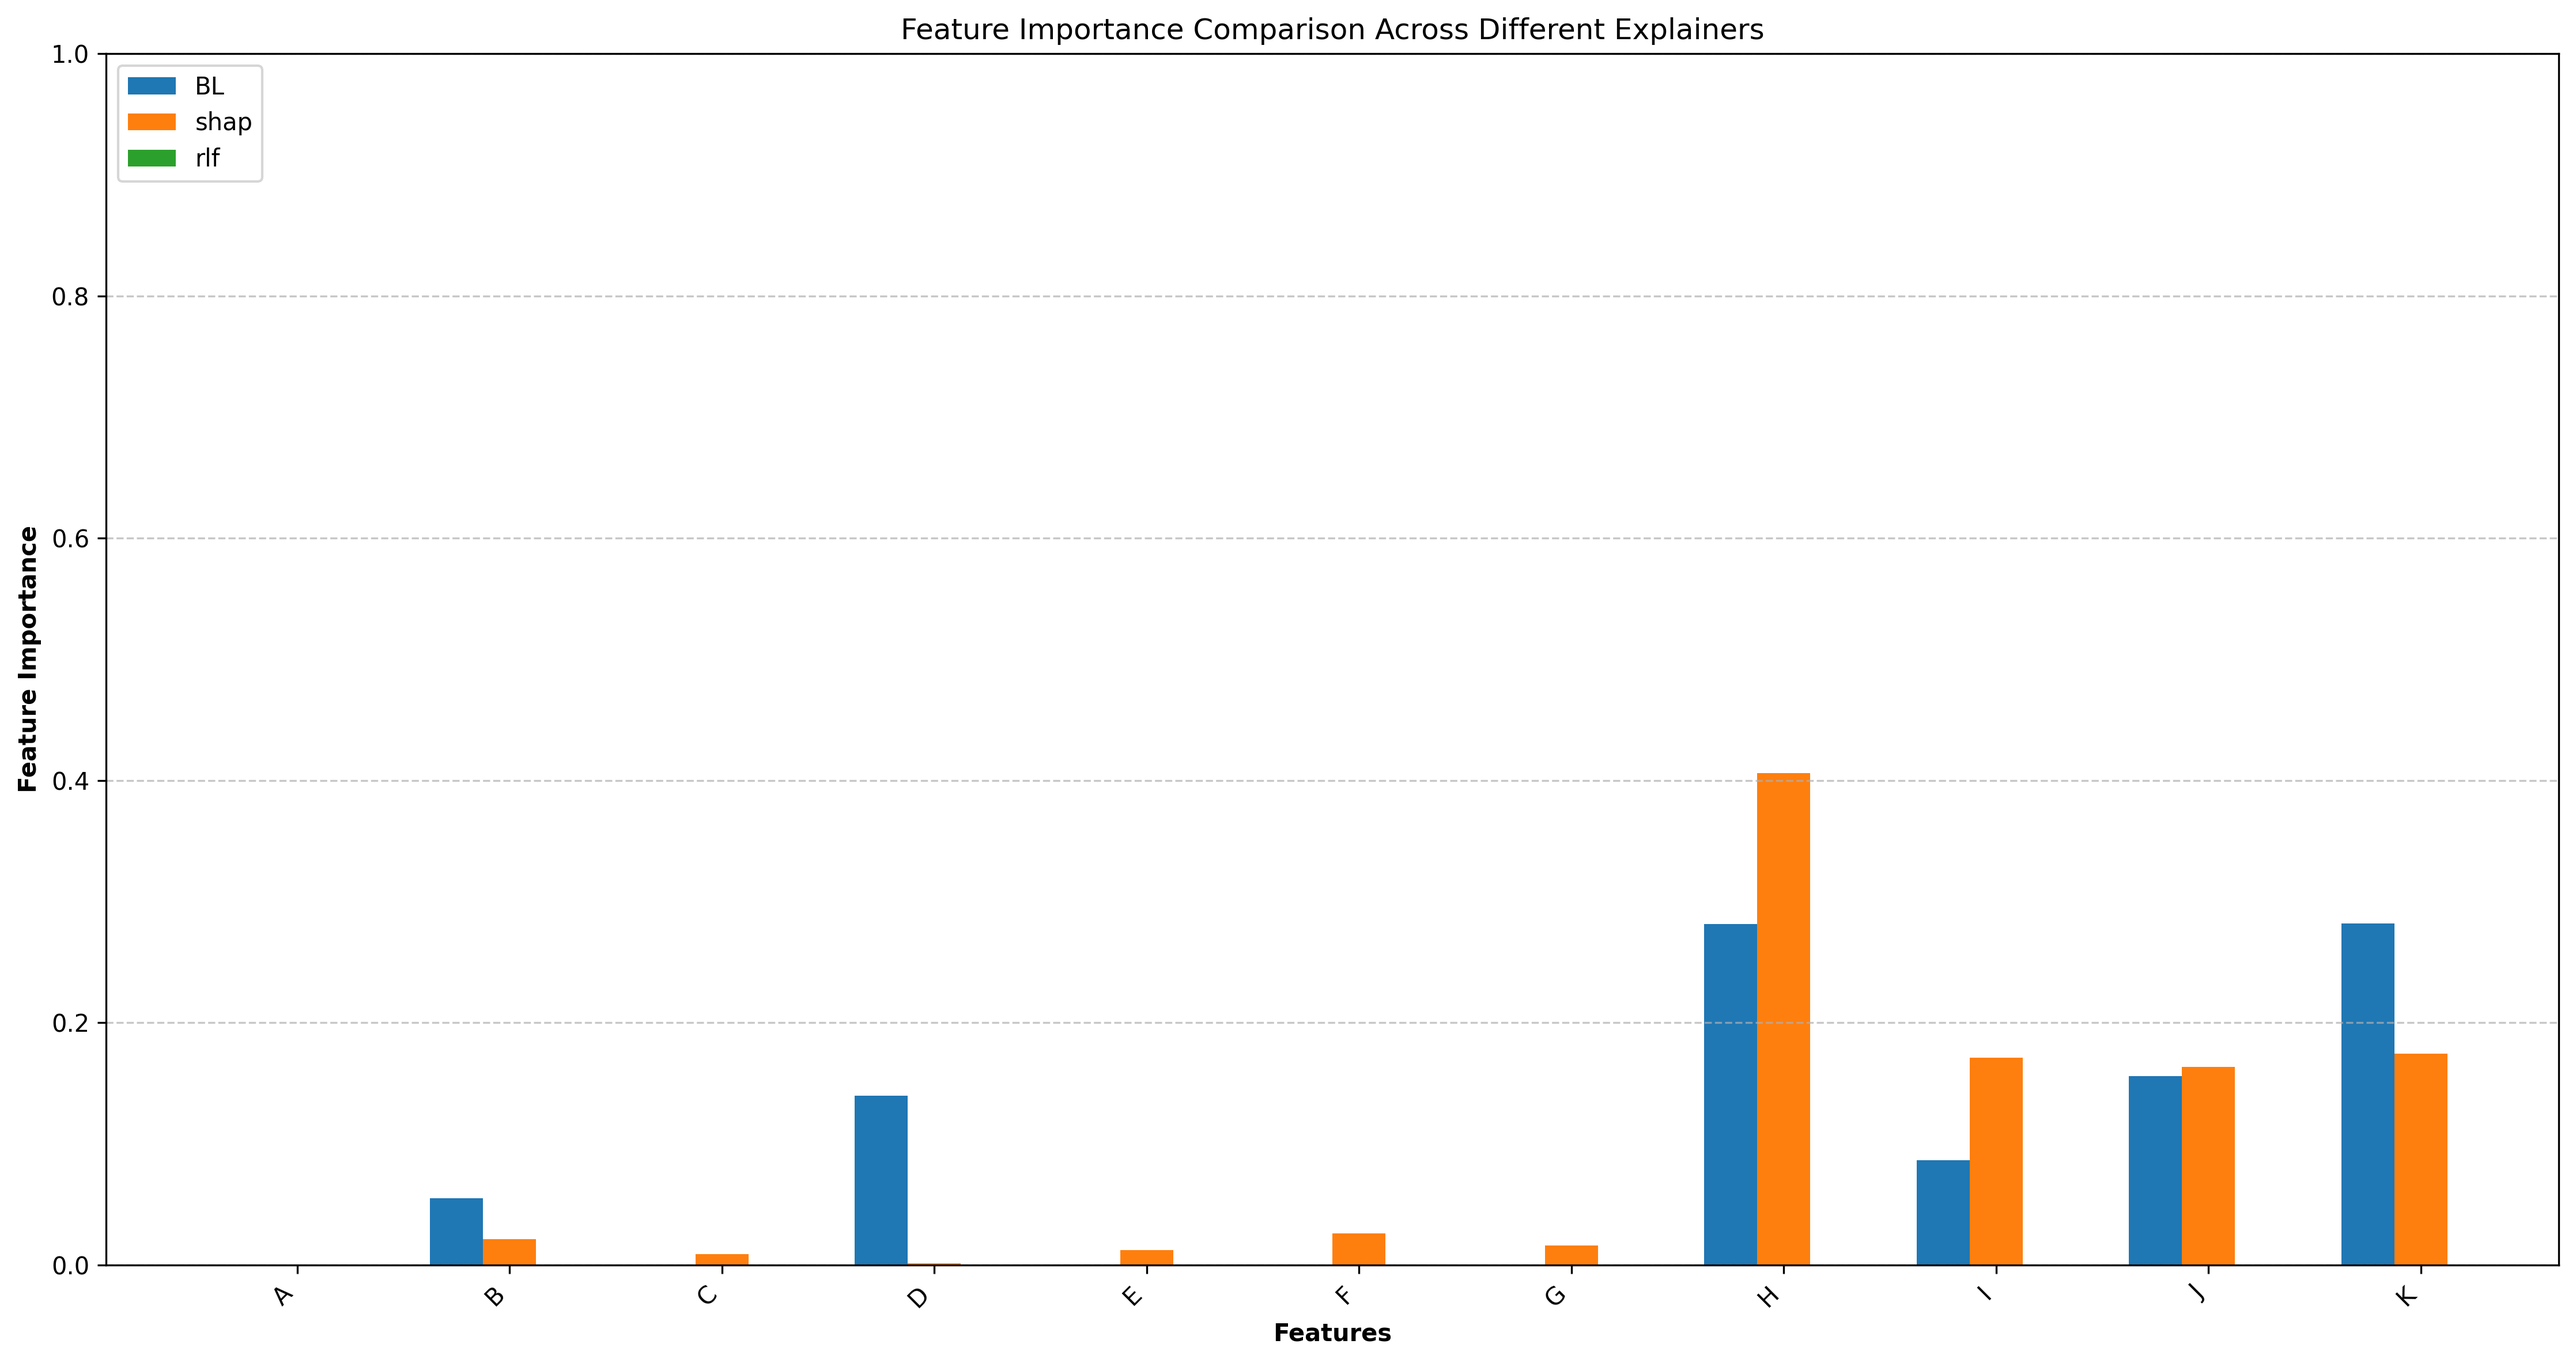
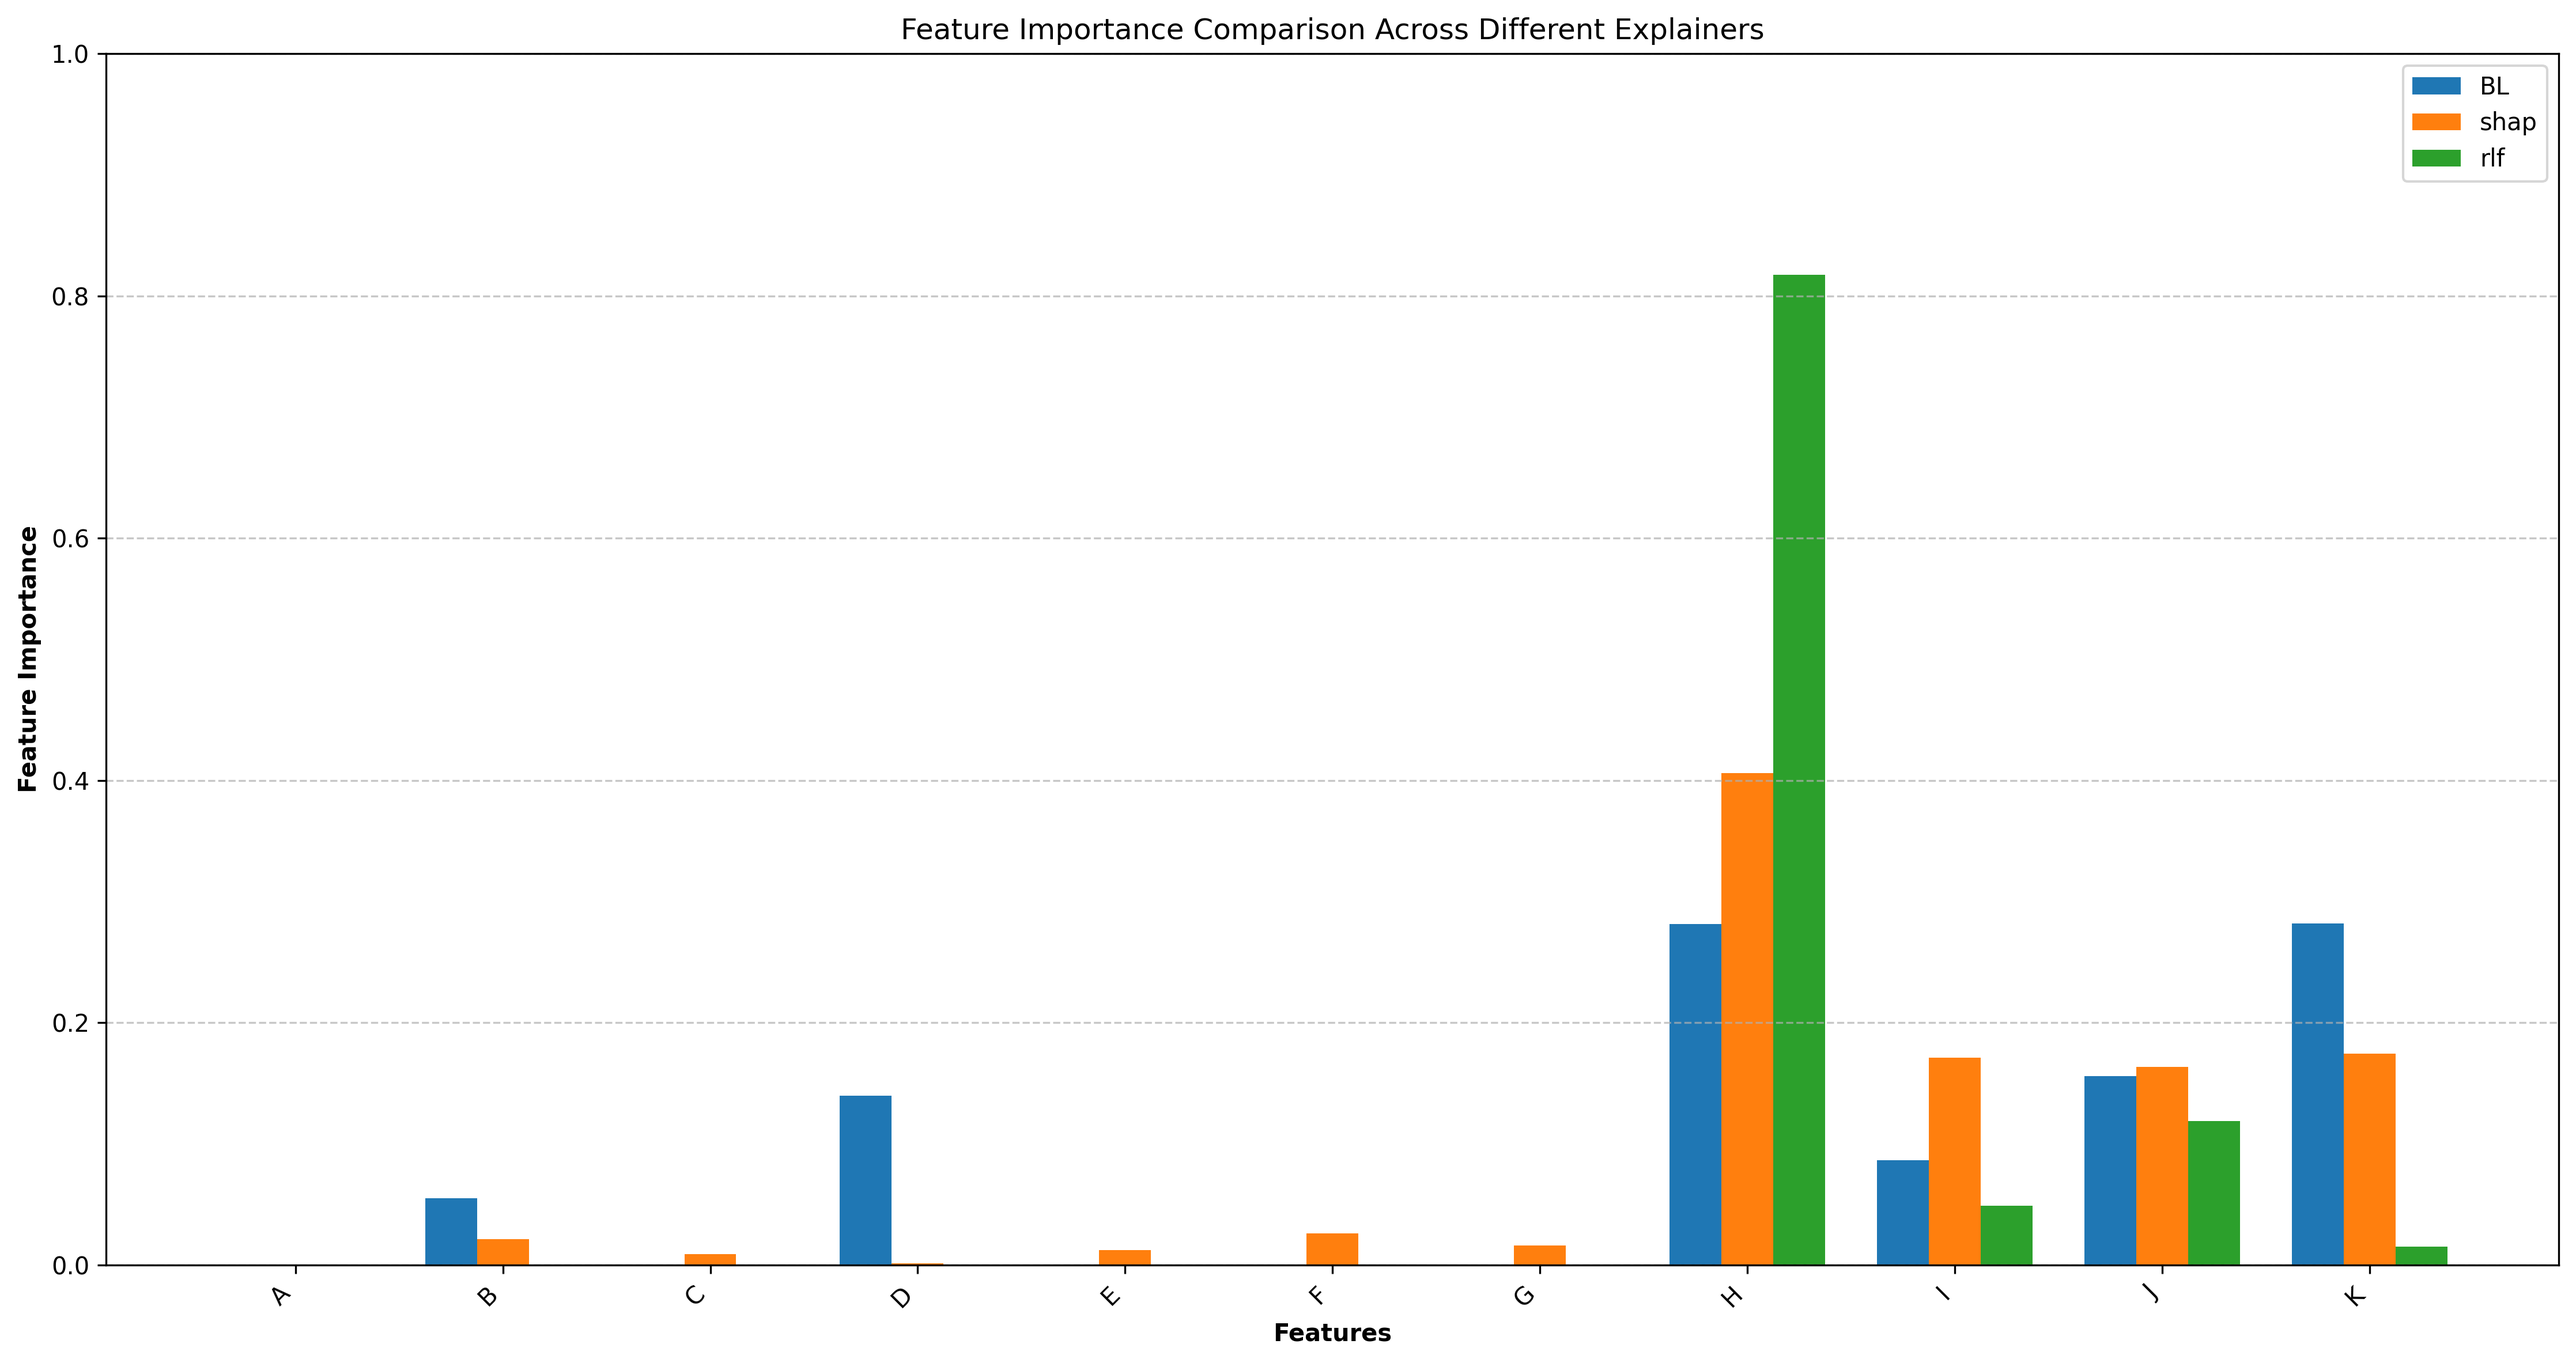
tmp exps

diff --git a/src/extend4.py b/src/extend4.py
@@ -46,7 +46,7 @@ def split_data(data, test_size=0.2):
         
     return train_data, test_data
 
-def run_bl_explainer(data, test_data, features):
+def run_bl_explainer(data):
     """Run BareLogic explainer and return feature importance"""
     the.Stop = 32
     t1 = time.time()
@@ -59,8 +59,8 @@ def run_bl_explainer(data, test_data, features):
     for f in bl_FI:
         bl_FI[f] = bl_FI[f] / w
     bl_FI["explainer"] = "BL"
-    
-    return bl_FI, time.time()-t1
+    bl_FI["run_time"] = time.time()-t1
+    return bl_FI
 
 def distribution_plot(labeled, data, features, sample):
     cols = [d.txt for d in data.cols.all]
@@ -225,7 +225,7 @@ def run_shap_explainer(data, test_data, features, idx=5):
     mean_shap_values = np.abs(shap_values).mean(axis=0)
     normalized_shap = mean_shap_values / np.sum(mean_shap_values)
     
-    shap_FI = {"explainer": "shap"}
+    shap_FI = {"explainer": "shap", "run_time":time.time()-t1}
     for k, v in zip(unlabeled_df[features], normalized_shap):
         shap_FI[k] = v
     
@@ -252,7 +252,7 @@ def run_shap_explainer(data, test_data, features, idx=5):
     #plt.savefig(f"explanations/{sys.argv[1].split("/")[-1][:-4]}/shap_waterfall_{idx}.png", dpi=300, bbox_inches="tight")
     #plt.clf()
     
-    return shap_FI, time.time()-t1
+    return shap_FI
 
 def analyze_feature_importance(feature_importance, features):
     """Analyze and visualize feature importance across explainers"""
@@ -268,11 +268,11 @@ def analyze_feature_importance(feature_importance, features):
     for i, explainer in enumerate(explainers):
         data = feature_importance[feature_importance['explainer'] == explainer]
         values = data[features].values[0]
-        plt.bar([r1, r2, r3][i], values, width=barWidth, label=explainer)
+        plt.bar([r1, r2, r3][i], values, width=barWidth, label=f"{explainer} ({round(data['run_time'].values[0],3)} s)")
     
     plt.xlabel('Features', fontweight='bold')
     plt.ylabel('Feature Importance', fontweight='bold')
-    plt.title('Feature Importance Comparison Across Different Explainers')
+    plt.title('Feature Importance Comparison Across Different Explainers (Total Time)')
     plt.xticks([r + barWidth for r in range(len(features))], features, rotation=45, ha='right')
     plt.ylim([0.0, 1.0])
     plt.legend()
@@ -286,7 +286,7 @@ def get_features(feature_importance, k):
     top_features = {}
     for _, row in feature_importance.iterrows():
         explainer = row['explainer']
-        feature_values = pd.to_numeric(row.drop('explainer'), errors='coerce')
+        feature_values = pd.to_numeric(row.drop(['explainer','run_time']), errors='coerce')
         top_2 = feature_values.nlargest(k)
         top_features[explainer] = [i for i in top_2.index]
     return top_features
@@ -364,14 +364,11 @@ def regression(unlabeled, labeled, cols, data, regressor, top_pick):
 def exp1(file, columns, repeats, regressor, top_pick = 5, stop = 32):
     def win(x): return round(100*(1 - (x - b4.lo)/(b4.mu - b4.lo)))
     selected_raw_data = Data(csv2(file, columns))
-    data, test_data = split_data(selected_raw_data)
-    b4    = yNums(data.rows, selected_raw_data)
     the.Stop = stop
     stats = []
     for _ in range(repeats):
-        #model = actLearn(data, shuffle=True)
-        #labeled = model.best.rows + model.rest.rows
         data, test_data = split_data(selected_raw_data)
+        b4    = yNums(data.rows, selected_raw_data)
         labeled = data.rows
         unlabeled = test_data.rows
         stats.append( win( regression(unlabeled, labeled, [d.txt for d in data.cols.all], selected_raw_data, regressor, top_pick) ) )
@@ -380,13 +377,11 @@ def exp1(file, columns, repeats, regressor, top_pick = 5, stop = 32):
 def exp2(file, columns, repeats, top_pick = 5, stop = 32):
     def win(x): return round(100*(1 - (x - b4.lo)/(b4.mu - b4.lo)))
     selected_raw_data = Data(csv2(file, columns))
-    data, test_data = split_data(selected_raw_data)
-    b4    = yNums(data.rows, selected_raw_data)
-    unlabeled_y = pd.DataFrame([ydist(row, data) for row in test_data.rows], columns=["d2h"])
     the.Stop = stop
     stats = []
     for _ in range(repeats):
         data, test_data = split_data(selected_raw_data)
+        b4    = yNums(data.rows, selected_raw_data)
         unlabeled_y = pd.DataFrame([ydist(row, data) for row in test_data.rows], columns=["d2h"])
         model = actLearn(data,shuffle=False)
         nodes = tree(model.best.rows + model.rest.rows,data)
@@ -403,11 +398,11 @@ def find_optimal(file, picks):
     return win(sorted(unlabeled_y["d2h"])[picks-1]), win(sorted(unlabeled_y["d2h"])[int(len(test_data.rows)*0.1)])
 
 def reliefff(data, cols):
+    print('-------ReliefF:-------')
     t1 = time.time()
     numerical_cols = [f for f in cols if (f[0].isupper() and f[-1] not in ["+","-", "X"])]
     categorical_cols = [f for f in cols if (not f[0].isupper() and f[-1] not in [["+","-", "X"]])]
-    sample_rows = random.sample(data.rows, 100)
-    X_train = pd.DataFrame(sample_rows, columns=cols)
+    X_train = pd.DataFrame(data.rows, columns=cols)
     X_train.drop([c for c in cols if c[-1] in ["+","-", "X"]], axis=1, inplace=True)
     preprocessor = ColumnTransformer(transformers=[
         ('num', StandardScaler(), numerical_cols),
@@ -415,15 +410,19 @@ def reliefff(data, cols):
     ])
     X_preprocessed = preprocessor.fit_transform(X_train)
     feature_names = preprocessor.get_feature_names_out()
-    relief =  RReliefF(X_preprocessed, np.array([ydist(row, data) for row in sample_rows]), k=10, sigma=50)
+    if len(data.rows) < 5000: sample_size = len(data.rows)
+    elif len(data.rows) < 20002: sample_size = 5000
+    else: sample_size = 10000
+    relief =  RReliefF(X_preprocessed, np.array([ydist(row, data) for row in data.rows]), updates = sample_size,k=10, sigma=50)
 
     features = [c for c in cols if c[-1] not in ["+", "-", "X"]]
-    weights = [f for f in relief]
+    weights = [f[0] if f > 0 else 0 for f in relief]
     w = sum(weights)
-    rlf = {"explainer":"rlf"}
+    rlf = {"explainer":"rlf", "run_time":time.time()-t1}
     for f, v in zip(features, weights):
-        rlf[f] = v[0] / w[0]
-    return rlf, time.time()-t1
+        rlf[f] = v / w
+    
+    return rlf
     
 def main():
     dataset = sys.argv[1]
@@ -440,23 +439,25 @@ def main():
     targets = [c for c in cols if c[-1] in ["+", "-"]]
     features = [c for c in cols if c[-1] not in ["+", "-", "X"]]
     
-    distribution_plot(data.rows, data, features, "all")
-    model = actLearn(data)
-    distribution_plot(model.best.rows + model.rest.rows, data, features, "32")
+    if len(features) < 15:
+        distribution_plot(data.rows, data, features, "all")
+        model = actLearn(data)
+        distribution_plot(model.best.rows + model.rest.rows, data, features, "32")
     
     # Run all explainers
-    bl_FI, bl_time = run_bl_explainer(data, test_data, features)
+    bl_FI = run_bl_explainer(data)
     #lime_FI = run_lime_explainer(data, test_data, features)
-    shap_FI, shap_time = run_shap_explainer(data, test_data, features)
-    rlf_FI, rlf_time = reliefff(data, cols)
+    shap_FI = run_shap_explainer(data, test_data, features)
+    rlf_FI = shap_FI
+    #rlf_FI = reliefff(data, cols)
     
     # Combine results
-    feature_importance = pd.DataFrame(columns=["explainer"] + features)
+    feature_importance = pd.DataFrame(columns=["explainer", "run_time"] + features)
     feature_importance.loc[len(feature_importance)] = bl_FI
     #feature_importance.loc[len(feature_importance)] = lime_FI
     feature_importance.loc[len(feature_importance)] = shap_FI
     feature_importance.loc[len(feature_importance)] = rlf_FI
-    
+    feature_importance.loc[len(feature_importance)-1, "explainer"] = "rlf"
     analyze_feature_importance(feature_importance, features)
     for regressor in ["bl", "ann","rf", "svr", "lgbm","linear"]:
         bl_mean, bl_std = [], []
@@ -464,6 +465,7 @@ def main():
         rlf_mean, rlf_std = [], []
         t1 = time.time()
         for k in range(len(features)):
+            print("-------------------  : ", k)
             top_features = get_features(feature_importance, k+1)
             if regressor == "bl":
                 mean, std = exp2(dataset, top_features['BL'] + targets, 15, 5, 32)
@@ -491,9 +493,9 @@ def main():
         # Create the plot
         plt.figure(figsize=(10, 6))
         x = range(1, len(features)+1)
-        plt.errorbar(x, bl_mean, yerr=bl_std, label=f'BL({round(bl_time,3)})', marker='o', capsize=5)
-        plt.errorbar([xx+0.01 for xx in x], shap_mean, yerr=shap_std, label=f'SHAP({round(shap_time,3)})', marker='s', capsize=5)
-        plt.errorbar([xx+0.02 for xx in x], rlf_mean, yerr=rlf_std, label=f'ReliefF({round(rlf_time,3)})', marker='s', capsize=5)
+        plt.errorbar(x, bl_mean, yerr=bl_std, label=f'BL', marker='o', capsize=5)
+        plt.errorbar([xx+0.01 for xx in x], shap_mean, yerr=shap_std, label=f'SHAP', marker='s', capsize=5)
+        plt.errorbar([xx+0.02 for xx in x], rlf_mean, yerr=rlf_std, label=f'ReliefF', marker='s', capsize=5)
 
         
         plt.errorbar(x, [optimal for _ in range(len(bl_mean))], label = f"Optimal 5/{len(test_data.rows)}", marker='o', capsize=5)

diff --git a/src/extend5.py b/src/extend5.py
@@ -1,0 +1,24 @@
+import sys
+from bl import *
+import pandas as pd 
+from extend4 import split_data
+import matplotlib.pyplot as plt
+
+dataset = sys.argv[1]
+selected_raw_data = Data(csv(dataset))
+
+for _ in range(20):
+    data, test_data = split_data(selected_raw_data)
+    model = actLearn(data,shuffle=True)
+    nodes = tree(model.best.rows + model.rest.rows,data)
+    vals = treeFeatureImportance(nodes).values()
+    size = len([i for i in vals if i > 0])
+    print([round(a,3) for a in vals], size, treeMDI(nodes))
+    plt.figure(figsize=(10, 6))
+    plt.bar(range(len(vals)), vals)
+    plt.xlabel('Features')
+    plt.ylabel('Importance')
+    plt.title(f'Feature Importance Distribution (Non-zero features: {size})')
+    plt.grid(True, linestyle='--', alpha=0.7)
+    plt.savefig(f'tmp/feature_importance_{_}.png', dpi=300, bbox_inches='tight')
+    plt.close()

diff --git a/src/relieff.py b/src/relieff.py
@@ -79,8 +79,7 @@ def __distance(k, sigma):
 
 # This follows Eqn 2
 def __diffNumeric(A, XRandomInstance, XKNNj, X):
-    denominator = np.max(X[:, A]) - np.min(X[:, A])
-
+    denominator = np.max(X[:, A]) - np.min(X[:, A]) + 1E-32
     return np.abs(XRandomInstance[A] - XKNNj[A]) / denominator
 
 
